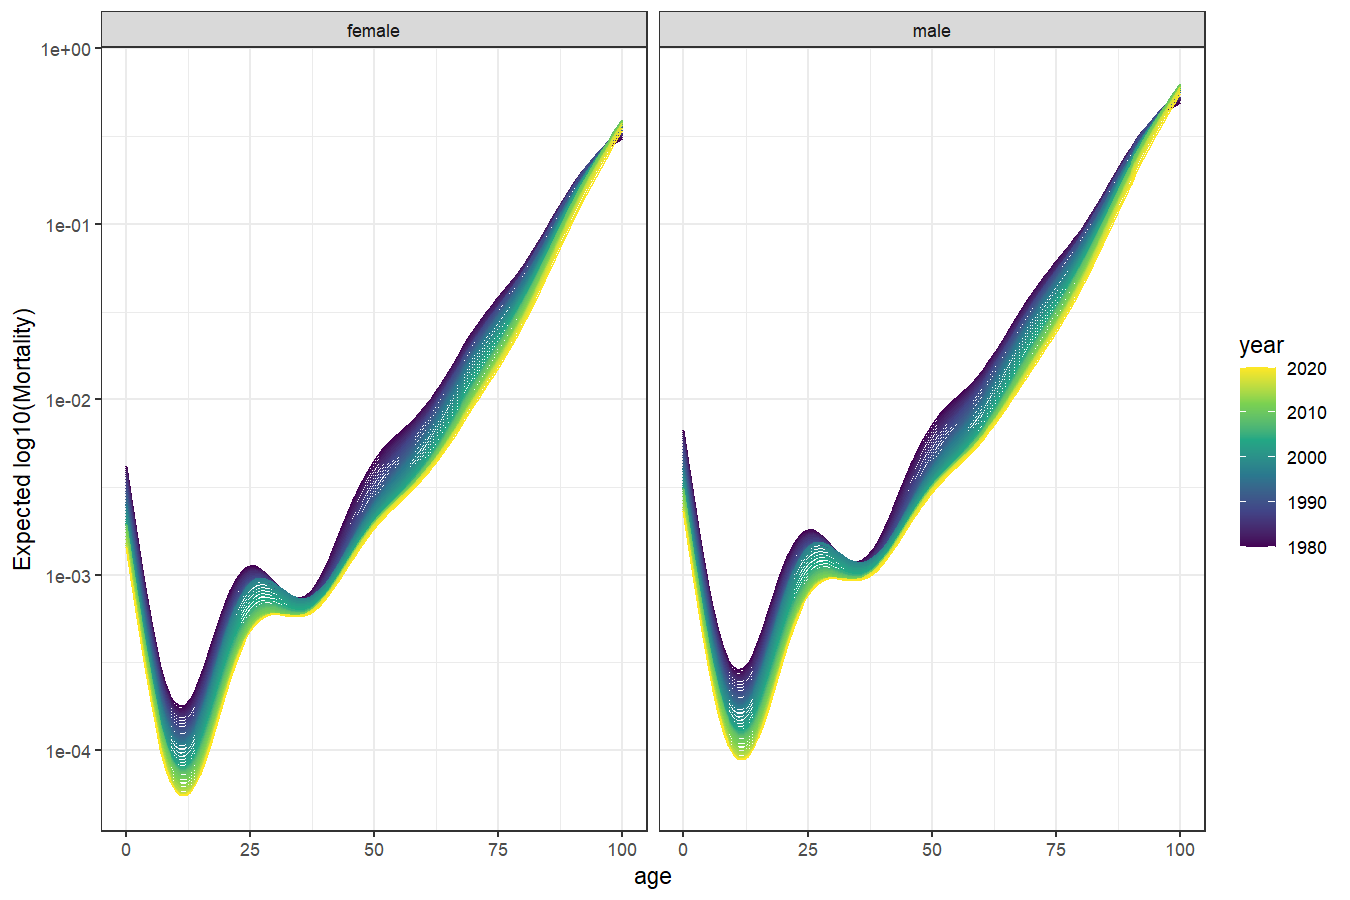
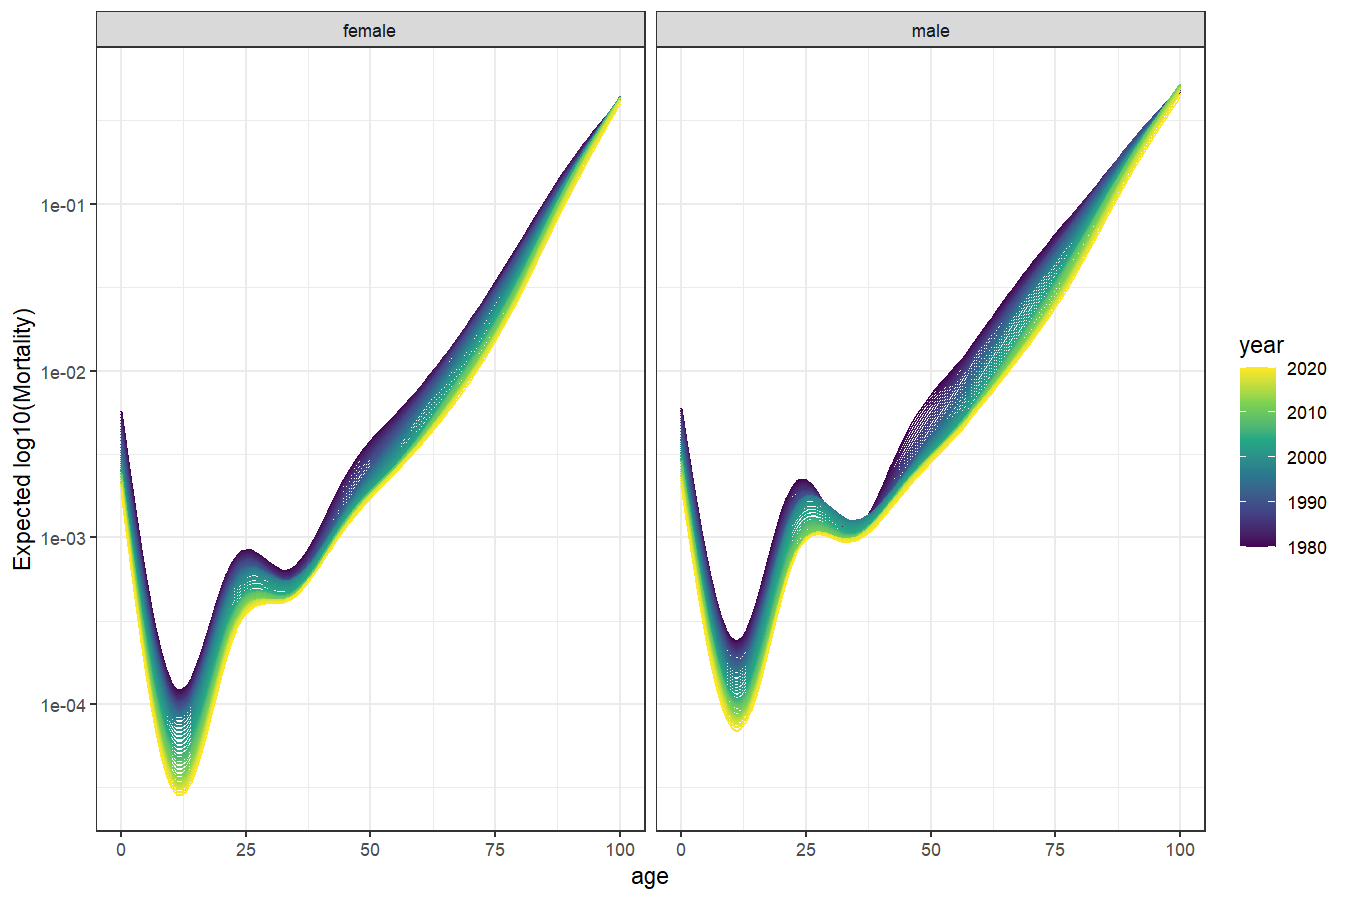
use drop_levels = TRUE in init_gam; boost readme

diff --git a/README.md b/README.md
@@ -50,17 +50,26 @@ Australia
 library(ffc)
 library(ggplot2); theme_set(theme_bw())
 data('qld_mortality')
-head(qld_mortality)
-#>   year age    sex deaths population
-#> 1 1980   0 female    190   17699.81
-#> 2 1980   1 female     20   17505.27
-#> 3 1980   2 female      6   17715.56
-#> 4 1980   3 female      6   18080.06
-#> 5 1980   4 female     10   18390.10
-#> 6 1980   5 female      6   18870.54
+head(qld_mortality, 15)
+#>    year age    sex deaths population
+#> 1  1980   0 female    190   17699.81
+#> 2  1980   1 female     20   17505.27
+#> 3  1980   2 female      6   17715.56
+#> 4  1980   3 female      6   18080.06
+#> 5  1980   4 female     10   18390.10
+#> 6  1980   5 female      6   18870.54
+#> 7  1980   6 female      1   19641.01
+#> 8  1980   7 female      2   20475.01
+#> 9  1980   8 female      2   21599.01
+#> 10 1980   9 female      7   22170.09
+#> 11 1980  10 female      2   21750.01
+#> 12 1980  11 female      3   20866.51
+#> 13 1980  12 female      1   20384.50
+#> 14 1980  13 female      8   19848.04
+#> 15 1980  14 female     11   19505.02
 ```
 
-Visualise the mortality curves over time using the log10 scale
+Visualise the observed mortality curves over time using the log10 scale
 
 ``` r
 ggplot(data = qld_mortality,
@@ -81,14 +90,17 @@ Fit a model to estimate how the log(mortality) curve changed over time
 using the `deaths` as the outcome and using a time-varying function of
 `age` as the primary predictor. Using `fts()`, we model the age-death
 function using a set of `k = 10` thin plate basis functions whose
-coefficients are allowed to vary over time, where `time = 'year'`
+coefficients are allowed to vary over time, where `time = 'year'`. In
+this model we allow the time-varying effects to vary among sexes while
+ensuring they can be efficiently learned by linking their smoothing
+parameters
 
 ``` r
 mod <- ffc_gam(
   deaths ~ 
     offset(log(population)) +
     sex + 
-    fts(age, k = 10, bs = 'tp',
+    fts(age, k = 10, bs = 'cr', by = sex,
         time_bs = 'cr', time_k = '15'),
   time = 'year',
   data = qld_mortality,
@@ -109,42 +121,60 @@ summary(mod)
 #> Link function: log 
 #> 
 #> Formula:
-#> deaths ~ sex + offset(log(population)) + s(year, by = fts_bs_s_age__1, 
-#>     bs = "cr", k = 15, id = 1) + s(year, by = fts_bs_s_age__2, 
-#>     bs = "cr", k = 15, id = 1) + s(year, by = fts_bs_s_age__3, 
-#>     bs = "cr", k = 15, id = 1) + s(year, by = fts_bs_s_age__4, 
-#>     bs = "cr", k = 15, id = 1) + s(year, by = fts_bs_s_age__5, 
-#>     bs = "cr", k = 15, id = 1) + s(year, by = fts_bs_s_age__6, 
-#>     bs = "cr", k = 15, id = 1) + s(year, by = fts_bs_s_age__7, 
-#>     bs = "cr", k = 15, id = 1) + s(year, by = fts_bs_s_age__8, 
-#>     bs = "cr", k = 15, id = 1) + s(year, by = fts_bs_s_age__9, 
+#> deaths ~ sex + offset(log(population)) + s(year, by = fts_bs_s_age_bysexfemale_1, 
+#>     bs = "cr", k = 15, id = 1) + s(year, by = fts_bs_s_age_bysexfemale_2, 
+#>     bs = "cr", k = 15, id = 1) + s(year, by = fts_bs_s_age_bysexfemale_3, 
+#>     bs = "cr", k = 15, id = 1) + s(year, by = fts_bs_s_age_bysexfemale_4, 
+#>     bs = "cr", k = 15, id = 1) + s(year, by = fts_bs_s_age_bysexfemale_5, 
+#>     bs = "cr", k = 15, id = 1) + s(year, by = fts_bs_s_age_bysexfemale_6, 
+#>     bs = "cr", k = 15, id = 1) + s(year, by = fts_bs_s_age_bysexfemale_7, 
+#>     bs = "cr", k = 15, id = 1) + s(year, by = fts_bs_s_age_bysexfemale_8, 
+#>     bs = "cr", k = 15, id = 1) + s(year, by = fts_bs_s_age_bysexfemale_9, 
+#>     bs = "cr", k = 15, id = 1) + s(year, by = fts_bs_s_age_bysexmale_1, 
+#>     bs = "cr", k = 15, id = 1) + s(year, by = fts_bs_s_age_bysexmale_2, 
+#>     bs = "cr", k = 15, id = 1) + s(year, by = fts_bs_s_age_bysexmale_3, 
+#>     bs = "cr", k = 15, id = 1) + s(year, by = fts_bs_s_age_bysexmale_4, 
+#>     bs = "cr", k = 15, id = 1) + s(year, by = fts_bs_s_age_bysexmale_5, 
+#>     bs = "cr", k = 15, id = 1) + s(year, by = fts_bs_s_age_bysexmale_6, 
+#>     bs = "cr", k = 15, id = 1) + s(year, by = fts_bs_s_age_bysexmale_7, 
+#>     bs = "cr", k = 15, id = 1) + s(year, by = fts_bs_s_age_bysexmale_8, 
+#>     bs = "cr", k = 15, id = 1) + s(year, by = fts_bs_s_age_bysexmale_9, 
 #>     bs = "cr", k = 15, id = 1) + s(year, by = fts_bs_fts_age1_mean, 
 #>     bs = "cr", k = 15, id = 1)
 #> 
 #> Parametric coefficients:
 #>              Estimate Std. Error z value Pr(>|z|)    
-#> (Intercept) -5.567370   0.002625   -2121   <2e-16 ***
-#> sexmale      0.473754   0.002078     228   <2e-16 ***
+#> (Intercept) -5.659335   0.004209 -1344.5   <2e-16 ***
+#> sexmale      0.578047   0.005186   111.5   <2e-16 ***
 #> ---
 #> Signif. codes:  0 '***' 0.001 '**' 0.01 '*' 0.05 '.' 0.1 ' ' 1
 #> 
 #> Approximate significance of smooth terms:
-#>                                 edf Ref.df Chi.sq p-value    
-#> s(year):fts_bs_s_age__1       8.453  9.657  36159  <2e-16 ***
-#> s(year):fts_bs_s_age__2       6.669  7.826  23363  <2e-16 ***
-#> s(year):fts_bs_s_age__3       8.142  9.317  22342  <2e-16 ***
-#> s(year):fts_bs_s_age__4       6.735  7.921  22197  <2e-16 ***
-#> s(year):fts_bs_s_age__5       7.794  8.942  23817  <2e-16 ***
-#> s(year):fts_bs_s_age__6       6.449  7.600  22290  <2e-16 ***
-#> s(year):fts_bs_s_age__7       7.569  8.687  20362  <2e-16 ***
-#> s(year):fts_bs_s_age__8       6.084  7.006  27395  <2e-16 ***
-#> s(year):fts_bs_s_age__9       6.212  6.915  12887  <2e-16 ***
-#> s(year):fts_bs_fts_age1_mean 10.758 12.260  10448  <2e-16 ***
+#>                                       edf Ref.df   Chi.sq p-value    
+#> s(year):fts_bs_s_age_bysexfemale_1  4.244  5.036  21201.5  <2e-16 ***
+#> s(year):fts_bs_s_age_bysexfemale_2  4.870  5.812  18371.8  <2e-16 ***
+#> s(year):fts_bs_s_age_bysexfemale_3  5.094  6.087  20280.6  <2e-16 ***
+#> s(year):fts_bs_s_age_bysexfemale_4  5.823  6.979   8524.1  <2e-16 ***
+#> s(year):fts_bs_s_age_bysexfemale_5  6.544  7.845    100.4  <2e-16 ***
+#> s(year):fts_bs_s_age_bysexfemale_6  7.384  8.832  29241.5  <2e-16 ***
+#> s(year):fts_bs_s_age_bysexfemale_7  8.190  9.752 163934.9  <2e-16 ***
+#> s(year):fts_bs_s_age_bysexfemale_8  8.194  9.738 378514.7  <2e-16 ***
+#> s(year):fts_bs_s_age_bysexfemale_9  5.892  7.064 319097.3  <2e-16 ***
+#> s(year):fts_bs_s_age_bysexmale_1    4.590  5.463  34591.5  <2e-16 ***
+#> s(year):fts_bs_s_age_bysexmale_2    5.712  6.843  23823.3  <2e-16 ***
+#> s(year):fts_bs_s_age_bysexmale_3    5.798  6.948  26801.3  <2e-16 ***
+#> s(year):fts_bs_s_age_bysexmale_4    6.443  7.726  11555.9  <2e-16 ***
+#> s(year):fts_bs_s_age_bysexmale_5    7.256  8.686   1054.9  <2e-16 ***
+#> s(year):fts_bs_s_age_bysexmale_6    8.104  9.656  58390.1  <2e-16 ***
+#> s(year):fts_bs_s_age_bysexmale_7    8.509 10.104 232146.8  <2e-16 ***
+#> s(year):fts_bs_s_age_bysexmale_8    7.814  9.315 394459.4  <2e-16 ***
+#> s(year):fts_bs_s_age_bysexmale_9    4.889  5.840 125245.2  <2e-16 ***
+#> s(year):fts_bs_fts_age1_mean       11.260 12.706   9556.0  <2e-16 ***
 #> ---
 #> Signif. codes:  0 '***' 0.001 '**' 0.01 '*' 0.05 '.' 0.1 ' ' 1
 #> 
-#> R-sq.(adj) =  0.978   Deviance explained =   97%
-#> fREML =  24615  Scale est. = 1         n = 8282
+#> R-sq.(adj) =  0.987   Deviance explained = 97.7%
+#> fREML =  20794  Scale est. = 1         n = 8282
 ```
 
 View predicted functional curves using a fixed offset (where
@@ -181,20 +211,20 @@ of the curve into the future
 ``` r
 functional_coefs <- fts_coefs(mod)
 functional_coefs
-#> # A tibble: 410 × 5
-#>    .basis          .time .estimate       .se  year
-#>    <chr>           <int>     <dbl>     <dbl> <int>
-#>  1 fts_bs_s_age__1  1980      5.11 0.000130   1980
-#>  2 fts_bs_s_age__1  1981      5.09 0.000115   1981
-#>  3 fts_bs_s_age__1  1982      5.06 0.000103   1982
-#>  4 fts_bs_s_age__1  1983      5.03 0.0000930  1983
-#>  5 fts_bs_s_age__1  1984      5.00 0.0000853  1984
-#>  6 fts_bs_s_age__1  1985      4.97 0.0000797  1985
-#>  7 fts_bs_s_age__1  1986      4.95 0.0000755  1986
-#>  8 fts_bs_s_age__1  1987      4.92 0.0000723  1987
-#>  9 fts_bs_s_age__1  1988      4.90 0.0000704  1988
-#> 10 fts_bs_s_age__1  1989      4.87 0.0000688  1989
-#> # ℹ 400 more rows
+#> # A tibble: 779 × 5
+#>    .basis                     .time .estimate       .se  year
+#>    <chr>                      <int>     <dbl>     <dbl> <int>
+#>  1 fts_bs_s_age_bysexfemale_1  1980     -3.77 0.000140   1980
+#>  2 fts_bs_s_age_bysexfemale_1  1981     -3.77 0.000122   1981
+#>  3 fts_bs_s_age_bysexfemale_1  1982     -3.77 0.000107   1982
+#>  4 fts_bs_s_age_bysexfemale_1  1983     -3.77 0.0000962  1983
+#>  5 fts_bs_s_age_bysexfemale_1  1984     -3.77 0.0000878  1984
+#>  6 fts_bs_s_age_bysexfemale_1  1985     -3.77 0.0000825  1985
+#>  7 fts_bs_s_age_bysexfemale_1  1986     -3.76 0.0000798  1986
+#>  8 fts_bs_s_age_bysexfemale_1  1987     -3.76 0.0000787  1987
+#>  9 fts_bs_s_age_bysexfemale_1  1988     -3.76 0.0000790  1988
+#> 10 fts_bs_s_age_bysexfemale_1  1989     -3.75 0.0000794  1989
+#> # ℹ 769 more rows
 ```
 
 ## Getting help
